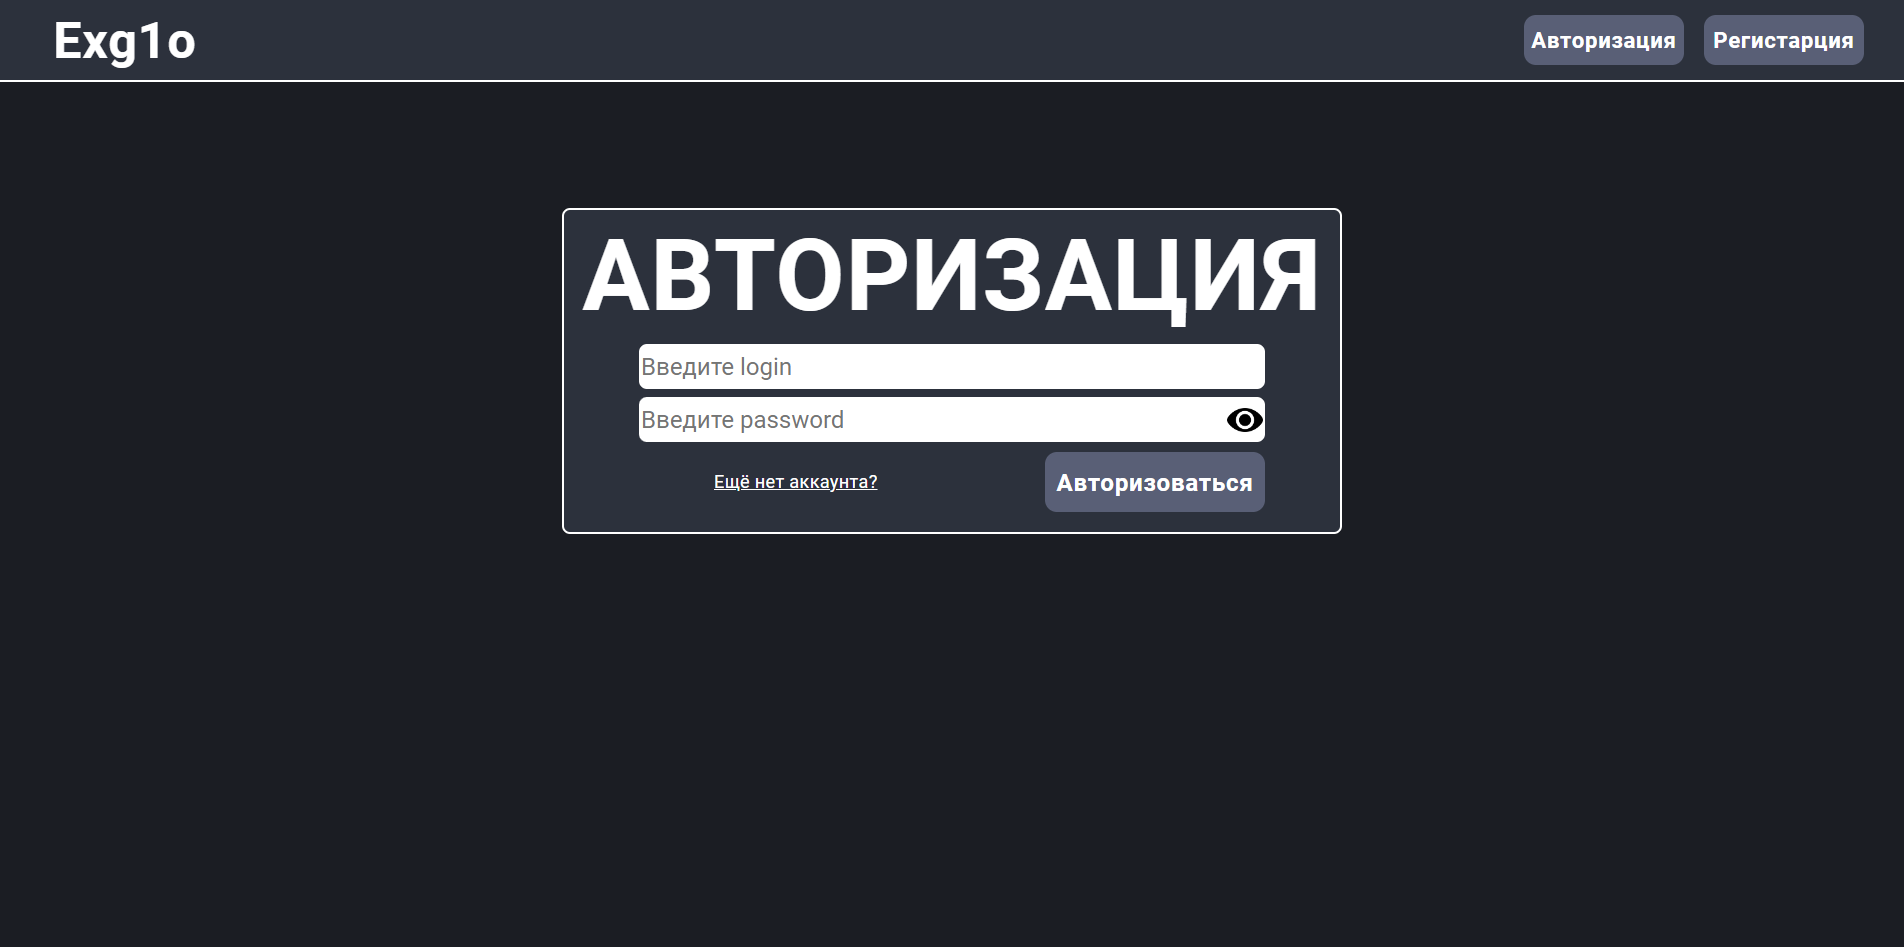
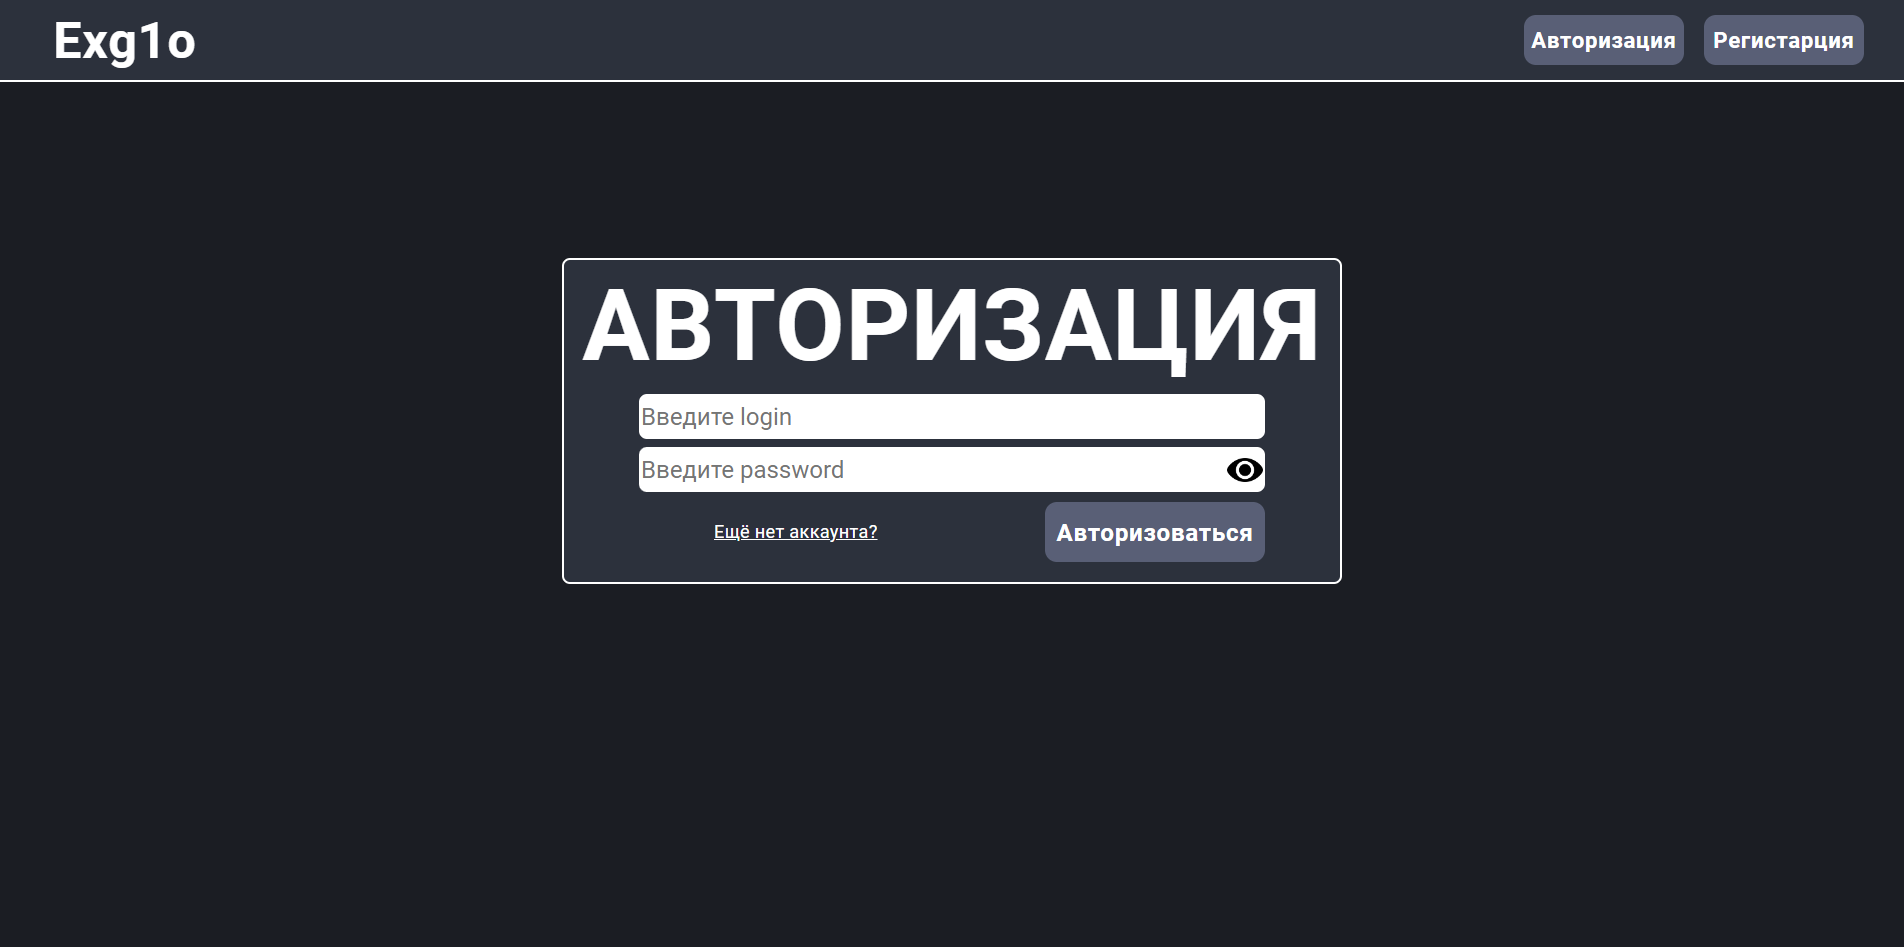
Maked adaptation for 1 page, fixed bugs

Changed region(s): [[0.2789, 0.2144, 0.7127, 0.6431]]

diff --git a/exg1o/static/konstruktor/add_bot/add_bot.css b/exg1o/static/konstruktor/add_bot/add_bot.css
@@ -1,11 +1,7 @@
 /* ------------ Главные контейнеры ------------ */
 .container {
-	width: 620px;
-	height: 345px;
-
 	margin: auto;
 
-	top: 250px;
 	left: 0;
 	right: 0;
 	position: absolute;
@@ -19,28 +15,23 @@
 }
 
 /* ------------ Заголовок ------------ */
-.heading{
+.heading {
 	margin-top: 4px;
 	margin-bottom: 4px;
 
 	text-align: center;
 	font-weight: bold;
-	font-size: 60px;
 	letter-spacing: 1px;
 }
 
 /* ------------ Контейнер для основых элементов ------------ */
 .add-bot-form {
-	left: 50px;
-	right: 50px;
 	position: absolute;
 }
 
 /* ------------ Inputs ------------ */
 .bot-name-input-control,
 .bot-token-input-control {
-	height: 45px;
-
 	margin-top: 4px;
 	margin-bottom: 4px;
 
@@ -65,7 +56,6 @@
 
 .bot-token-button-control {
 	width: 40px;
-	height: 45px;
 
 	margin-top: 4px;
 	margin-bottom: 4px;
@@ -93,21 +83,16 @@
 
 /* ------------ Кнопки ------------ */
 .buttons {
-	top: 192px;
-	left: 50px;
-	right: 50px;
 	position: absolute;
 }
 
 .add-bot-button-control,
 .back-button-control {
 	width: 100%;
-	height: 60px;
 
 	margin-bottom: 8px;
 
 	font-weight: bold;
-	font-size: 24px;
 	letter-spacing: 0.8px;
 
 	border: 0;
@@ -126,4 +111,94 @@
 .add-bot-button-control:active,
 .back-button-control:active {
 	background-color: #434965;
+}
+
+@media (min-width: 320px) and (max-width: 767px) {
+	.container {
+		width: 300px;
+		height: 252px;
+
+		top: 250px;
+	}
+
+	.heading {
+		font-size: 28px;
+	}
+
+	.add-bot-form {
+		left: 15px;
+		right: 15px;
+	}
+
+	.bot-name-input-control,
+	.bot-token-input-control {
+		height: 38px;
+
+		font-size: 22px;
+	}
+
+	.bot-token-button-control {
+		height: 38px;
+	}
+
+	.buttons {
+		top: 140px;
+		left: 15px;
+		right: 15px;
+	}
+
+	.add-bot-button-control,
+	.back-button-control {
+		height: 45px;
+
+		font-size: 20px;
+	}
+}
+
+@media (min-width: 768px) {
+	.container {
+		width: 620px;
+		height: 345px;
+
+		top: 150px;
+	}
+
+	.heading {
+		font-size: 60px;
+	}
+
+	.add-bot-form {
+		left: 50px;
+		right: 50px;
+	}
+
+	.bot-name-input-control,
+	.bot-token-input-control {
+		height: 45px;
+
+		font-size: 28px;
+	}
+
+	.bot-token-button-control {
+		height: 45px;
+	}
+
+	.buttons {
+		top: 192px;
+		left: 50px;
+		right: 50px;
+	}
+
+	.add-bot-button-control,
+	.back-button-control {
+		height: 60px;
+
+		font-size: 24px;
+	}
+}
+
+@media (min-width: 1000px) {
+	.container {
+		top: 250px;
+	}
 }

diff --git a/exg1o/static/main/main.css b/exg1o/static/main/main.css
@@ -63,10 +63,6 @@
 }
 
 @media (min-width: 768px) {
-	.container {
-		top: 150px;
-	}
-
 	.heading {
 		font-size: 120px;
 	}
@@ -78,9 +74,10 @@
 
 @media (min-width: 768px) and (max-width: 999px) {
 	.container {
-		top: 150px;
 		left: 60px;
 		right: 60px;
+
+		top: 150px;
 	}
 }
 
@@ -90,7 +87,7 @@
 
 		margin: auto;
 
-		top: 175px;
+		top: 250px;
 		left: 0;
 		right: 0;
 	}
@@ -102,6 +99,7 @@
 
 		margin: auto;
 
+		top: 250px;
 		left: 0;
 		right: 0;
 	}

diff --git a/exg1o/static/authorization/authorization.css b/exg1o/static/authorization/authorization.css
@@ -116,7 +116,7 @@
 	.container {
 		height: 240px;
 
-		top: 225px;
+		top: 200px;
 		left: 10px;
 		right: 10px;
 	}
@@ -243,7 +243,7 @@
 
 		margin: auto;
 
-		top: 200px;
+		top: 250px;
 		left: 0;
 		right: 0;
 	}

diff --git a/exg1o/static/registration/registration.css b/exg1o/static/registration/registration.css
@@ -121,7 +121,7 @@
 	.container {
 		height: 332px;
 
-		top: 225px;
+		top: 200px;
 		left: 10px;
 		right: 10px;
 	}
@@ -252,7 +252,7 @@
 
 		margin: auto;
 
-		top: 200px;
+		top: 250px;
 		left: 0;
 		right: 0;
 	}

diff --git a/exg1o/static/main/mobile_main.css b/exg1o/static/main/mobile_main.css
@@ -1,5 +1,5 @@
 @media (min-width: 320px) and (max-width: 767px) {
 	.container {
-		top: 262px;
+		top: 250px;
 	}
 }
